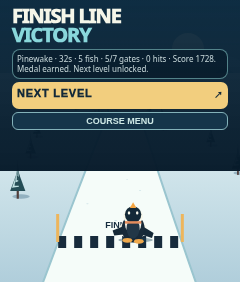
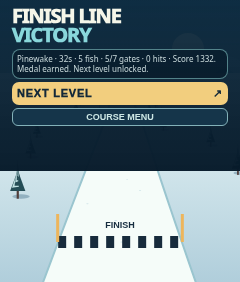
Fix 16 bugs (B1-B7, B9-B17) and add Rabbit R1 SDK support
Bug fixes:
- B1: Adjusted rival pacing to start slower and accelerate gradually
- B2: Added Rabbit R1 SDK hardware event support (scrollUp/scrollDown, sideClick, longPress, accelerometer, creationStorage)
- B3: Clamped gate offset to keep gates inside track at all 25 levels
- B4: Fixed painter's order to draw far-to-near
- B5: Project Tux like other sprites and sort all by distance
- B6: Added sound feedback for boost, charge, miss, and land events
- B7: Fixed par time formula to be 1.2x clean run time
- B9: Adjusted gate scoring width to match pole art (~.118)
- B10: Optimized HUD updates to only write on change
- B11: Pre-render sky and mountains to offscreen canvas
- B12: Compacted HUD and moved pause button into top corner
- B13: Create AudioContext in start handler before use
- B14: Auto-pause on visibility change
- B15: Debounce wheel events (150ms, immediate opposite direction)
- B16: Implement fixed 60Hz timestep with accumulator
- B17: Add favicon.svg and fix theme color to #89D7DB

Tests:
- Added test verifying perfect run can win level 1
- Added test verifying gates stay inside track boundaries at all 25 levels
- All existing engine tests pass
- Browser tests pass at 240x282 without console errors

diff --git a/game.js b/game.js
@@ -1,9 +1,9 @@
 import {renderScene} from './renderer.js';
 import {COURSES,center,width,newRun,step,jump,grade,score,racePlace,clamp} from './engine.js';
 const $=id=>document.getElementById(id),canvas=$('scene'),ctx=canvas.getContext('2d');
-let pickerPage=0;let boostQueued=false;let state='menu',selected=0,unlocked=0,run=null,last=0,tilt=0,tiltBase=null,tiltLive=false,tiltAt=0,noticeUntil=0,keys=new Set(),touch={left:false,right:false,brake:false},audio=null,wheelBrake=false,lastTap=null;
-try{unlocked=clamp(Number(localStorage.getItem('snowline-unlocked'))||0,0,COURSES.length-1)}catch{}
-function sound(type){try{audio ||= new (window.AudioContext||window.webkitAudioContext)();const o=audio.createOscillator(),g=audio.createGain(),t=audio.currentTime;o.type=type==='hit'?'sawtooth':'sine';o.frequency.setValueAtTime(type==='fish'?580:type==='hit'?130:380,t);o.frequency.exponentialRampToValueAtTime(type==='fish'?900:type==='hit'?75:510,t+.13);g.gain.setValueAtTime(.0001,t);g.gain.exponentialRampToValueAtTime(.085,t+.014);g.gain.exponentialRampToValueAtTime(.0001,t+.16);o.connect(g).connect(audio.destination);o.start(t);o.stop(t+.17)}catch{}}
+let pickerPage=0;let boostQueued=false;let state='menu',selected=0,unlocked=0,run=null,last=0,tilt=0,tiltBase=null,tiltLive=false,tiltAt=0,noticeUntil=0,keys=new Set(),touch={left:false,right:false,brake:false},audio=null,wheelBrake=false,lastTap=null,hudCache={},lastWheel=0,lastWheelDir=0,accumulator=0;
+try{unlocked=clamp(Number((window.creationStorage||localStorage).getItem('snowline-unlocked'))||0,0,COURSES.length-1)}catch{}
+function sound(type){try{if(!audio)return;const o=audio.createOscillator(),g=audio.createGain(),t=audio.currentTime;o.type=type==='hit'?'sawtooth':type==='miss'?'triangle':'sine';o.frequency.setValueAtTime(type==='fish'?580:type==='hit'?130:type==='boost'?680:type==='land'?280:type==='miss'?190:380,t);o.frequency.exponentialRampToValueAtTime(type==='fish'?900:type==='hit'?75:type==='boost'?820:type==='land'?240:type==='miss'?150:510,t+.13);g.gain.setValueAtTime(.0001,t);g.gain.exponentialRampToValueAtTime(type==='boost'?.11:(type==='land'||type==='miss')?.05:.085,t+.014);g.gain.exponentialRampToValueAtTime(.0001,t+(type==='boost'?.25:.16));o.connect(g).connect(audio.destination);o.start(t);o.stop(t+(type==='boost'?.25:.17))}catch{}}
 function announce(s){$('notice').textContent=s;noticeUntil=performance.now()+1100}
 function picker(){
  const root=$('picker');root.replaceChildren();
@@ -23,10 +23,17 @@ function picker(){
 }
 function describeCourse(){const c=COURSES[selected];$('description').textContent=`${c.subtitle}. ${c.length}m · ${c.gateCount} gates · ${c.target} fish · ${c.time}s par.`}
 function menu(mode='menu'){state=mode;$('panel').classList.remove('results');$('panel').hidden=false;$('controls').hidden=true;$('hud').hidden=true;$('pause').hidden=true;$('panel').querySelector('h1').innerHTML='SNOWLINE<br><em>SPRINT</em>';$('primary').innerHTML='START DESCENT <span>↗</span>';$('menuButton').hidden=true;pickerPage=Math.floor(selected/5);picker();describeCourse()}
-function start(){run=newRun(selected);tiltBase=null;tiltLive=false;wheelBrake=false;lastTap=null;state='racing';$('panel').classList.remove('results');$('panel').hidden=true;$('controls').hidden=false;$('hud').hidden=false;$('pause').hidden=false;last=performance.now();announce(COURSES[selected].name.toUpperCase());audio?.resume();requestTilt()}
+function start(){run=newRun(selected);tiltBase=null;tiltLive=false;wheelBrake=false;lastTap=null;hudCache={};accumulator=0;state='racing';$('panel').classList.remove('results');$('panel').hidden=true;$('controls').hidden=false;$('hud').hidden=false;$('pause').hidden=false;last=performance.now();announce(COURSES[selected].name.toUpperCase());if(!audio)try{audio=new (window.AudioContext||window.webkitAudioContext)()}catch{}audio?.resume();requestTilt()}
 function requestTilt(){if(typeof DeviceOrientationEvent==='undefined')return;if(typeof DeviceOrientationEvent.requestPermission==='function'){DeviceOrientationEvent.requestPermission().catch(()=>{});} }
 window.addEventListener('deviceorientation',e=>{if(typeof e.gamma!=='number')return;if(tiltBase===null)tiltBase=e.gamma;tilt=clamp((e.gamma-tiltBase)/24,-1,1);tiltLive=true;tiltAt=performance.now()});
-function finish(){state='results';$('hud').hidden=true;$('controls').hidden=true;$('pause').hidden=true;$('panel').hidden=false;$('panel').classList.add('results');const medal=grade(run),place=racePlace(run),win=medal&&place===1;if(win&&selected===unlocked&&unlocked<COURSES.length-1){unlocked++;pickerPage=Math.floor(unlocked/5);try{localStorage.setItem('snowline-unlocked',String(unlocked))}catch{}}picker();$('panel').querySelector('h1').innerHTML='FINISH LINE<br><em>'+ (place===1?'VICTORY':`PLACE ${place} / 4`) +'</em>';$('description').textContent=`${COURSES[selected].name} · ${Math.ceil(run.elapsed)}s · ${run.fish} fish · ${run.gates}/${run.course.gateCount} gates · ${run.hits} hits · Score ${score(run)}. ${medal?'Medal earned.':'Medal needs target fish, 65% gates, par time and fewer than four hits.'} ${win?(selected<COURSES.length-1?'Next level unlocked.':'All 25 levels cleared!'):'Finish first with a medal to unlock the next level.'}`;$('primary').innerHTML=win&&selected<COURSES.length-1?'NEXT LEVEL <span>↗</span>':'RACE AGAIN <span>↗</span>';$('menuButton').hidden=false;sound(win?'fish':'hit')}
+if(window.creationSensors?.accelerometer){window.creationSensors.accelerometer.addEventListener('reading',()=>{const acc=window.creationSensors.accelerometer;if(typeof acc.x!=='number')return;if(tiltBase===null)tiltBase=acc.x*57.3;tilt=clamp((acc.x*57.3-tiltBase)/24,-1,1);tiltLive=true;tiltAt=performance.now()})}
+window.addEventListener('scrollUp',()=>{if(state==='racing'){wheelBrake=false;boostQueued=true;announce('SCROLL UP · BOOST')}});
+window.addEventListener('scrollDown',()=>{if(state==='racing'){wheelBrake=true;announce('SCROLL DOWN · BRAKE')}});
+window.addEventListener('sideClick',()=>{if(state==='racing')jump(run)});
+let longPressing=false;
+window.addEventListener('longPressStart',()=>{longPressing=true;if(state==='racing'&&wheelBrake){wheelBrake=false;announce('BRAKE RELEASED')}});
+window.addEventListener('longPressEnd',()=>{longPressing=false});
+function finish(){state='results';$('hud').hidden=true;$('controls').hidden=true;$('pause').hidden=true;$('panel').hidden=false;$('panel').classList.add('results');const medal=grade(run),place=racePlace(run),win=medal&&place===1;if(win&&selected===unlocked&&unlocked<COURSES.length-1){unlocked++;pickerPage=Math.floor(unlocked/5);try{(window.creationStorage||localStorage).setItem('snowline-unlocked',String(unlocked))}catch{}}picker();$('panel').querySelector('h1').innerHTML='FINISH LINE<br><em>'+ (place===1?'VICTORY':`PLACE ${place} / 4`) +'</em>';$('description').textContent=`${COURSES[selected].name} · ${Math.ceil(run.elapsed)}s · ${run.fish} fish · ${run.gates}/${run.course.gateCount} gates · ${run.hits} hits · Score ${score(run)}. ${medal?'Medal earned.':'Medal needs target fish, 65% gates, par time and fewer than four hits.'} ${win?(selected<COURSES.length-1?'Next level unlocked.':'All 25 levels cleared!'):'Finish first with a medal to unlock the next level.'}`;$('primary').innerHTML=win&&selected<COURSES.length-1?'NEXT LEVEL <span>↗</span>':'RACE AGAIN <span>↗</span>';$('menuButton').hidden=false;sound(win?'fish':'hit')}
 $('menuButton').onclick=()=>menu();$('primary').onclick=()=>{if(state==='paused'){state='racing';$('panel').hidden=true;last=performance.now();return}if(state==='results'&&grade(run)&&racePlace(run)===1&&selected<COURSES.length-1)selected++;start()};$('pause').onclick=()=>{if(state!=='racing')return;state='paused';$('panel').classList.remove('results');$('panel').hidden=false;$('panel').querySelector('h1').innerHTML='TAKE A<br><em>BREATH</em>';$('description').textContent='The mountain waits. Tilt to steer, or use the arrows. Hold brake on tight turns.';$('primary').innerHTML='RESUME <span>↗</span>';$('menuButton').hidden=false};
 for(const id of ['left','right','brake']){const b=$(id);b.onpointerdown=e=>{e.preventDefault();b.setPointerCapture(e.pointerId);if(id==='brake'&&wheelBrake){wheelBrake=false;announce('BRAKE RELEASED')}else touch[id]=true};b.onpointerup=b.onpointercancel=()=>touch[id]=false}
 $('boost').onpointerdown=e=>{e.preventDefault();if(state==='racing')boostQueued=true};
@@ -37,14 +44,18 @@ const taps=new Map();
 $('shell').addEventListener('pointerdown',e=>{if(state!=='racing'||e.target.closest('button,.controls,.panel,.hud'))return;taps.set(e.pointerId,{x:e.clientX,y:e.clientY,t:performance.now()})});
 $('shell').addEventListener('pointercancel',e=>{taps.delete(e.pointerId);lastTap=null});
 $('shell').addEventListener('pointerup',e=>{const down=taps.get(e.pointerId);taps.delete(e.pointerId);if(!down||state!=='racing')return;const now=performance.now();if(now-down.t>300||Math.hypot(e.clientX-down.x,e.clientY-down.y)>18){lastTap=null;return}if(lastTap&&lastTap.id===e.pointerType&&now-lastTap.t<360&&Math.hypot(e.clientX-lastTap.x,e.clientY-lastTap.y)<75){jump(run);lastTap=null}else lastTap={x:e.clientX,y:e.clientY,t:now,id:e.pointerType}});
-window.addEventListener('wheel',e=>{if(state!=='racing'||!e.deltaY)return;e.preventDefault();if(e.deltaY<0){wheelBrake=false;boostQueued=true;announce('WHEEL ↑ BOOST')}else{wheelBrake=true;announce('WHEEL ↓ BRAKE')}},{passive:false});
+window.addEventListener('wheel',e=>{if(state!=='racing'||!e.deltaY)return;const now=performance.now();const dir=Math.sign(e.deltaY);if(dir===lastWheelDir&&now-lastWheel<150)return;lastWheel=now;lastWheelDir=dir;e.preventDefault();if(e.deltaY<0){wheelBrake=false;boostQueued=true;announce('WHEEL ↑ BOOST')}else{wheelBrake=true;announce('WHEEL ↓ BRAKE')}},{passive:false});
 window.addEventListener('keydown',e=>{if(['ArrowLeft','ArrowRight','ArrowDown','Space'].includes(e.code))e.preventDefault();keys.add(e.code);if((e.code==='ArrowUp'||e.code==='KeyW')&&state==='racing'&&!e.repeat)boostQueued=true;if(e.code==='Space'&&state==='racing'&&!e.repeat)jump(run);if(e.code==='Escape'&&state==='racing')$('pause').click()});window.addEventListener('keyup',e=>keys.delete(e.code));
-function render(){const c=run?.course||COURSES[selected];renderScene(ctx,run,c,performance.now());if(run){$('timer').textContent=`${Math.floor(run.elapsed/60).toString().padStart(2,'0')}:${Math.floor(run.elapsed%60).toString().padStart(2,'0')}`;$('fishHud').textContent=`◆ ${run.fish}/${c.target}`;$('gateHud').textContent=`◇ ${run.gates}/${c.gateCount}`;$('speedHud').textContent=`${Math.round(run.speed)} m/s`;$('progress').style.width=`${run.z/c.length*100}%`;$('staminaFill').style.width=`${run.stamina}%`;$('boostHud').textContent=`⚡ ${run.boostCharges} BOOST${run.boostCharges===1?'':'S'}`;$('courseHud').textContent=c.name.toUpperCase();$('distanceHud').textContent=`${Math.ceil(Math.max(0,c.length-run.z))}m TO FINISH`;const place=racePlace(run);$('rivalsHud').textContent=`${place}/4 · ${[...run.rivals].sort((a,b)=>Math.abs(a.z-run.z)-Math.abs(b.z-run.z)).slice(0,1).map(r=>`${r.name} ${Math.round(r.z-run.z)>0?'+':''}${Math.round(r.z-run.z)}m`).join('')}`;$('modeHud').textContent=run.brake?'BRAKING · WHEEL ↑ BOOST':run.boost>0?'BOOSTING · WHEEL ↓ BRAKE':'COAST · WHEEL ↑ BOOST / ↓ BRAKE'}}
+document.addEventListener('visibilitychange',()=>{if(document.hidden&&state==='racing')$('pause').click()});
+function render(){const c=run?.course||COURSES[selected];renderScene(ctx,run,c,performance.now());if(run){const timer=`${Math.floor(run.elapsed/60).toString().padStart(2,'0')}:${Math.floor(run.elapsed%60).toString().padStart(2,'0')}`;if(hudCache.timer!==timer){$('timer').textContent=hudCache.timer=timer}const fishHud=`◆ ${run.fish}/${c.target}`;if(hudCache.fishHud!==fishHud){$('fishHud').textContent=hudCache.fishHud=fishHud}const gateHud=`◇ ${run.gates}/${c.gateCount}`;if(hudCache.gateHud!==gateHud){$('gateHud').textContent=hudCache.gateHud=gateHud}const speedHud=`${Math.round(run.speed)} m/s`;if(hudCache.speedHud!==speedHud){$('speedHud').textContent=hudCache.speedHud=speedHud}const progress=`${run.z/c.length*100}%`;if(hudCache.progress!==progress){$('progress').style.width=hudCache.progress=progress}const stamina=`${run.stamina}%`;if(hudCache.stamina!==stamina){$('staminaFill').style.width=hudCache.stamina=stamina}const boostHud=`⚡ ${run.boostCharges} BOOST${run.boostCharges===1?'':'S'}`;if(hudCache.boostHud!==boostHud){$('boostHud').textContent=hudCache.boostHud=boostHud}const courseHud=c.name.toUpperCase();if(hudCache.courseHud!==courseHud){$('courseHud').textContent=hudCache.courseHud=courseHud}const distanceHud=`${Math.ceil(Math.max(0,c.length-run.z))}m TO FINISH`;if(hudCache.distanceHud!==distanceHud){$('distanceHud').textContent=hudCache.distanceHud=distanceHud}const place=racePlace(run);const rivalsHud=`${place}/4 · ${[...run.rivals].sort((a,b)=>Math.abs(a.z-run.z)-Math.abs(b.z-run.z)).slice(0,1).map(r=>`${r.name} ${Math.round(r.z-run.z)>0?'+':''}${Math.round(r.z-run.z)}m`).join('')}`;if(hudCache.rivalsHud!==rivalsHud){$('rivalsHud').textContent=hudCache.rivalsHud=rivalsHud}const modeHud=run.brake?'BRAKING · WHEEL ↑ BOOST':run.boost>0?'BOOSTING · WHEEL ↓ BRAKE':'COAST · WHEEL ↑ BOOST / ↓ BRAKE';if(hudCache.modeHud!==modeHud){$('modeHud').textContent=hudCache.modeHud=modeHud}}}
 function frame(t){const dt=Math.min(.05,(t-last)/1000||0);last=t;if(state==='racing'){
  const steer=(touch.right||keys.has('ArrowRight')||keys.has('KeyD')?1:0)-(touch.left||keys.has('ArrowLeft')||keys.has('KeyA')?1:0);
- // Touch/keyboard takes priority while pressed; sensor tilt takes over otherwise.
- step(run,dt,{steer:steer||((tiltLive&&t-tiltAt<1000&&Math.abs(tilt)>.08)?tilt:0),brake:wheelBrake||touch.brake||keys.has('ArrowDown')||keys.has('KeyS'),boost:boostQueued});boostQueued=false;
- for(const e of run.events){if(e==='fish'||e==='gate'||e==='hit'||e==='ramp'){announce({fish:'FISH +85',gate:'CLEAN GATE +160',hit:'ROCK! SLOW DOWN',ramp:'AIRBORNE',boost:'BOOST!',charge:'BOOST +1'}[e]);sound(e)}}if(run.finished)finish();}
+ const input={steer:steer||((tiltLive&&t-tiltAt<1000&&Math.abs(tilt)>.08)?tilt:0),brake:wheelBrake||touch.brake||keys.has('ArrowDown')||keys.has('KeyS'),boost:boostQueued};
+ boostQueued=false;
+ accumulator+=dt;
+ const fixedDt=1/60;
+ while(accumulator>=fixedDt){step(run,fixedDt,input);accumulator-=fixedDt}
+ for(const e of run.events){if(['fish','gate','hit','ramp','boost','charge','miss','land'].includes(e)){announce({fish:'FISH +85',gate:'CLEAN GATE +160',hit:'ROCK! SLOW DOWN',ramp:'AIRBORNE',boost:'BOOST!',charge:'BOOST +1',miss:'MISSED GATE -45',land:'LANDED'}[e]);sound(e)}}if(run.finished)finish();}
  if(t>noticeUntil)$('notice').textContent='';render();requestAnimationFrame(frame)}
 picker();describeCourse();requestAnimationFrame(frame);
 window.__snowline={get state(){return state},get run(){return run},get unlocked(){return unlocked},start,step:(dt,input)=>{if(state==='racing'){step(run,dt,input);if(run.finished)finish()}},jump:()=>jump(run)};

diff --git a/renderer.js b/renderer.js
@@ -2,6 +2,8 @@ import {center,width,clamp,rivalX} from './engine.js';
 const poly=(g,points,fill)=>{g.fillStyle=fill;g.beginPath();g.moveTo(...points[0]);for(let i=1;i<points.length;i++)g.lineTo(...points[i]);g.closePath();g.fill()};
 const ellipse=(g,x,y,rx,ry,color)=>{g.fillStyle=color;g.beginPath();g.ellipse(x,y,Math.max(.2,rx),Math.max(.2,ry),0,0,7);g.fill()};
 const rng=n=>{let v=Math.sin(n*127.1+45.6)*43758.5453;return v-Math.floor(v)};
+const skyCache=new Map();
+function getSkyCanvas(night,ice){const key=`${night?'n':'d'}${ice?'i':'p'}`;if(skyCache.has(key))return skyCache.get(key);const c=document.createElement('canvas');c.width=240;c.height=282;const g=c.getContext('2d');const sky=g.createLinearGradient(0,0,0,240);sky.addColorStop(0,night?'#13233e':ice?'#467d9d':'#527f99');sky.addColorStop(.55,night?'#d47b7f':'#d8edf0');sky.addColorStop(1,'#d5e5ed');g.fillStyle=sky;g.fillRect(0,0,240,282);ellipse(g,188,49,night?12:16,night?12:16,night?'#fff3d5':'#fff9e3');for(let layer=0;layer<3;layer++){let pts=[[0,145]];for(let x=0;x<=250;x+=5){let crest=(layer===0?83:layer===1?102:123)-Math.abs(Math.sin(x*.024+layer*2.3))*22-Math.abs(Math.sin(x*.087+layer))*12;pts.push([x,crest])}pts.push([240,145]);poly(g,pts,night?['#62637e','#555d79','#6b7185'][layer]:['#a2c8da','#7eafc4','#6d9aad'][layer])}skyCache.set(key,c);return c}
 function pine(g,x,y,s,night){if(s<.25)return;g.save();g.translate(x,y);g.scale(s,s);ellipse(g,3,1,8,2,'#426b8766');g.fillStyle='#513f3b';g.fillRect(-1,-12,2,15);for(let i=0;i<3;i++){let a=7-i*4;poly(g,[[-a,-4-i*5],[0,-23-i*5],[a,-4-i*5]],night?'#173449':'#244c55');poly(g,[[-a*.76,-7-i*5],[0,-23-i*5],[a*.15,-8-i*5]],night?'#66818b':'#c1e1e3')}g.restore()}
 // Prone downhill silhouette: orange beak leads uphill on screen, broad white
 // cheek/neck patches frame the black crown, flippers and webbed feet trail.
@@ -25,9 +27,7 @@ function penguin(g,x,y,air,lean,scale=1,t=0,scarf='#e58d5c'){
 }
 const qFor=d=>1/(1+d*.029);
 function drawObject(g,o,x,y,s,night){g.save();g.translate(x,y);g.scale(s,s);if(o.type==='fish'){ellipse(g,0,-8,8,4,'#fbc35f');poly(g,[[5,-8],[13,-13],[13,-3]],'#f5a942');ellipse(g,-3,-9,1,1,'#173d44')}else if(o.type==='boost'){ellipse(g,0,-9,11,11,'#b5f65666');ellipse(g,0,-9,8,8,'#adf768');poly(g,[[2,-16],[-4,-8],[0,-8],[-3,-1],[6,-11],[1,-11]],'#1c4450')}else if(o.type==='gate'){g.strokeStyle=night?'#a7f2dc':'#2c6e81';g.lineWidth=2;for(const a of [-13,13]){g.beginPath();g.moveTo(a,0);g.lineTo(a,-25);g.stroke();ellipse(g,a,-25,2,2,'#d8fff6')}poly(g,[[-13,-24],[13,-24],[13,-19],[-13,-19]],'#b0ef81')}else if(o.type==='rock'){poly(g,[[-10,0],[-6,-9],[1,-14],[7,-10],[12,0]],'#547187');poly(g,[[-6,-9],[1,-14],[4,-10],[-2,-7]],'#effaff')}else{poly(g,[[-13,0],[13,0],[8,-5],[-9,-5]],'#d98c5f');g.fillStyle='#ffe9d2';g.fillRect(-8,-5,15,1)}g.restore()}
-export function renderScene(g,run,course,t){const c=course,z=run?.z||0,night=c.theme==='dusk',ice=c.theme==='ice',sky=g.createLinearGradient(0,0,0,240);sky.addColorStop(0,night?'#13233e':ice?'#467d9d':'#527f99');sky.addColorStop(.55,night?'#d47b7f':'#d8edf0');sky.addColorStop(1,'#d5e5ed');g.fillStyle=sky;g.fillRect(0,0,240,282);
- ellipse(g,188,49,night?12:16,night?12:16,night?'#fff3d5':'#fff9e3');
- for(let layer=0;layer<3;layer++){let pts=[[0,145]];for(let x=0;x<=250;x+=5){let crest=(layer===0?83:layer===1?102:123)-Math.abs(Math.sin(x*.024+layer*2.3))*22-Math.abs(Math.sin(x*.087+layer))*12;pts.push([x,crest])}pts.push([240,145]);poly(g,pts,night?['#62637e','#555d79','#6b7185'][layer]:['#a2c8da','#7eafc4','#6d9aad'][layer])}
+export function renderScene(g,run,course,t){const c=course,z=run?.z||0,night=c.theme==='dusk',ice=c.theme==='ice';g.drawImage(getSkyCanvas(night,ice),0,0);
  const h=73,ground=g.createLinearGradient(0,h,0,282);ground.addColorStop(0,night?'#ddc5d5':'#ecf8f8');ground.addColorStop(1,night?'#c4b6c8':'#b0cedb');g.fillStyle=ground;g.fillRect(0,h,240,282-h);
  // Chase camera tracks the winding centerline; a sampled width and vanishing point convey slope depth.
  const point=(d,x)=>{let zz=Math.max(0,z+d),q=1/(1+d*.029),bend=(center(zz,c)-center(z,c))*155*q;return {x:120+bend+(x-center(zz,c))*165*q,y:72+170*q,q}};
@@ -37,6 +37,11 @@ export function renderScene(g,run,course,t){const c=course,z=run?.z||0,night=c.t
  for(let n=0;n<50;n++){let zz=Math.floor(z/11)*11+n*11,d=zz-z;if(d<0||d>245)continue;let q=1/(1+d*.029),side=n%2?1:-1,xx=center(zz,c)+side*(width(zz,c)*.5+.11+rng(n*3+c.seed)*.9),p=point(d,xx);pine(g,p.x,p.y,clamp(1.5*q,.16,1.2),night)}
  for(let n=0;n<75;n++){let zz=Math.floor(z/5)*5+n*5,d=zz-z;if(d<0||d>190)continue;let p=point(d,center(zz,c)+(rng(n*17+c.seed)-.5)*width(zz,c)*.8);ellipse(g,p.x,p.y,Math.max(.5,p.q*1.7),Math.max(.3,p.q*.6),night?'#b8b6ce77':'#a2c7d376')}
  if(run){const finishD=c.length-z;if(finishD>=-12&&finishD<=235){const q=1/(1+finishD*.029),w=width(c.length,c)*.5,left=point(finishD,center(c.length,c)-w),right=point(finishD,center(c.length,c)+w);g.save();g.strokeStyle='#172b3c';g.lineWidth=Math.max(2,q*12);g.setLineDash([Math.max(2,q*8),Math.max(2,q*8)]);g.beginPath();g.moveTo(left.x,left.y);g.lineTo(right.x,right.y);g.stroke();g.setLineDash([]);g.fillStyle='#edb55c';g.fillRect(left.x-2,left.y-28*q,3,28*q);g.fillRect(right.x-1,right.y-28*q,3,28*q);g.fillStyle='#162d40';g.font=`bold ${Math.max(5,9*q)}px sans-serif`;g.textAlign='center';g.fillText('FINISH', (left.x+right.x)/2,left.y-14*q);g.restore()}
- for(const rival of [...run.rivals].sort((a,b)=>b.z-a.z)){const d=rival.z-z;if(d< -15||d>235)continue;const p=point(d,rivalX(rival,rival.z,c));penguin(g,p.x,p.y-7*qFor(d),0,0,clamp(p.q*.9,.23,.78),t+rival.phase*100,['#e78c73','#8dd7e2','#dfc37c'][run.rivals.indexOf(rival)])}
- for(const o of run.objects){let d=o.z-z;if(d<0||d>235)continue;let p=point(d,o.x);drawObject(g,o,p.x,p.y,clamp(p.q*1.5,.2,1.4),night)}let rider=point(-8,run.x);if(run.boost>0){for(let i=0;i<7;i++){let x=rider.x+(rng(i*13+t*.002)-.5)*32,y=235+i*7;ellipse(g,x,y,1+i*.2,3,'#b8f86baa')}}penguin(g,rider.x,222,run.air,run.steer,.82,t)}else penguin(g,120,217,0,0,.85,t);
+ const sprites=[];
+ for(const rival of run.rivals){const d=rival.z-z;if(d>=-15&&d<=235){const p=point(d,rivalX(rival,rival.z,c));sprites.push({type:'rival',d,x:p.x,y:p.y-7*qFor(d),q:p.q,rival})}}
+ for(const o of run.objects){let d=o.z-z;if(d>=0&&d<=235){let p=point(d,o.x);sprites.push({type:'object',d,x:p.x,y:p.y,q:p.q,o})}}
+ if(!run.finished){const riderD=-8;const rider=point(riderD,run.x);sprites.push({type:'tux',d:riderD,x:rider.x,y:rider.y,q:rider.q,air:run.air,steer:run.steer,boost:run.boost})}
+ sprites.sort((a,b)=>b.d-a.d);
+ for(const s of sprites){if(s.type==='rival'){penguin(g,s.x,s.y,0,0,clamp(s.q*.9,.23,.78),t+s.rival.phase*100,['#e78c73','#8dd7e2','#dfc37c'][run.rivals.indexOf(s.rival)])}else if(s.type==='object'){drawObject(g,s.o,s.x,s.y,clamp(s.q*1.5,.2,1.4),night)}else if(s.type==='tux'){if(s.boost>0){for(let i=0;i<7;i++){let x=s.x+(rng(i*13+t*.002)-.5)*32,y=235+i*7;ellipse(g,x,y,1+i*.2,3,'#b8f86baa')}}penguin(g,s.x,s.y,s.air,s.steer,.82,t)}}
+ }else penguin(g,120,217,0,0,.85,t);
 }

diff --git a/style.css b/style.css
@@ -1,4 +1,4 @@
-*{box-sizing:border-box}html,body{margin:0;width:100%;height:100%;overflow:hidden;background:#081523;color:#f5f6e9;font-family:system-ui,-apple-system,sans-serif;touch-action:none}#shell{position:absolute;width:240px;height:282px;left:50%;top:50%;transform:translate(-50%,-50%);overflow:hidden;background:#173c53}canvas{display:block;width:240px;height:282px}.hud{position:absolute;inset:0 0 auto;pointer-events:none;padding:8px 9px 0;text-shadow:0 1px 3px #143047;font-size:9px;font-weight:800;letter-spacing:.08em}.hud-top,.hud-bottom{display:flex;justify-content:space-between;align-items:center}.hud-bottom{margin-top:4px}.meter{height:3px;background:#ffffff60;border-radius:8px;margin-top:5px}.meter>div{height:100%;width:0;background:#f3ce70;border-radius:8px}.pause{position:absolute;right:8px;top:47px;background:#132d41ad;color:white;border:1px solid #ffffff80;border-radius:50%;width:25px;height:25px;font-size:13px}.controls{position:absolute;bottom:5px;left:5px;right:5px;display:flex;gap:4px;justify-content:space-between;align-items:end}.controls button{height:30px;min-width:38px;border:1px solid #d9f3f0a8;border-radius:9px;background:#102e48bd;color:white;font-size:11px;font-weight:900;touch-action:none}.controls #brake{background:#ed9b49db;color:#102134;min-width:53px}.controls #jump{background:#73ccd6dc;color:#102134;min-width:49px}#notice{position:absolute;top:71px;left:10px;right:10px;text-align:center;font-size:11px;font-weight:900;color:#ffe09a;text-shadow:0 2px 4px #142d42;pointer-events:none}.panel{position:absolute;inset:0;background:linear-gradient(180deg,#112d43d6,#0b2435f2 57%,#08192af8);padding:21px 16px 13px;display:flex;flex-direction:column;align-items:stretch}.eyebrow{font-size:8px;color:#eecb79;font-weight:900;letter-spacing:.17em}.panel h1{font-size:29px;line-height:.93;letter-spacing:-.055em;margin:10px 0 8px;font-weight:950}.panel h1 em{font-style:normal;color:#89d7db}.panel p{font-size:10px;line-height:1.42;color:#c9d9db;margin:0 0 8px}.course-picker{display:flex;gap:4px;margin:1px 0 8px}.course-picker button{flex:1;min-width:0;border:1px solid #6596a4;background:#153950;color:#e9f3ee;border-radius:6px;padding:5px 1px;font-size:8px;font-weight:800}.course-picker button.active{background:#eecb79;color:#152b37;border-color:#eecb79}.course-picker button:disabled{opacity:.37}.primary{width:100%;padding:8px 9px;background:#f2ce7e;color:#132939;border:0;border-radius:7px;font-size:11px;font-weight:950;letter-spacing:.07em;text-align:left;display:flex;justify-content:space-between}.panel .tip{font-size:8px;color:#a8c4ca;margin:7px 0 0}button:focus-visible{outline:2px solid white} [hidden]{display:none!important}
+*{box-sizing:border-box}html,body{margin:0;width:100%;height:100%;overflow:hidden;background:#081523;color:#f5f6e9;font-family:system-ui,-apple-system,sans-serif;touch-action:none}#shell{position:absolute;width:240px;height:282px;left:50%;top:50%;transform:translate(-50%,-50%);overflow:hidden;background:#173c53}canvas{display:block;width:240px;height:282px}.hud{position:absolute;inset:0 0 auto;pointer-events:none;padding:6px 9px 0;text-shadow:0 1px 3px #143047;font-size:9px;font-weight:800;letter-spacing:.08em;background:linear-gradient(#102b40e8,#102b40b8 70%,transparent);padding-bottom:8px}.hud-top,.hud-bottom{display:flex;justify-content:space-between;align-items:center}.hud-bottom{margin-top:3px}.meter{height:3px;background:#ffffff60;border-radius:8px;margin-top:4px}.meter>div{height:100%;width:0;background:#f3ce70;border-radius:8px}.pause{position:absolute;right:8px;top:6px;background:#132d41ad;color:white;border:1px solid #ffffff80;border-radius:50%;width:25px;height:25px;font-size:13px}.controls{position:absolute;bottom:5px;left:5px;right:5px;display:flex;gap:4px;justify-content:space-between;align-items:end}.controls button{height:30px;min-width:38px;border:1px solid #d9f3f0a8;border-radius:9px;background:#102e48bd;color:white;font-size:11px;font-weight:900;touch-action:none}.controls #brake{background:#ed9b49db;color:#102134;min-width:53px}.controls #jump{background:#73ccd6dc;color:#102134;min-width:49px}#notice{position:absolute;top:71px;left:10px;right:10px;text-align:center;font-size:11px;font-weight:900;color:#ffe09a;text-shadow:0 2px 4px #142d42;pointer-events:none}.panel{position:absolute;inset:0;background:linear-gradient(180deg,#112d43d6,#0b2435f2 57%,#08192af8);padding:21px 16px 13px;display:flex;flex-direction:column;align-items:stretch}.eyebrow{font-size:8px;color:#eecb79;font-weight:900;letter-spacing:.17em}.panel h1{font-size:29px;line-height:.93;letter-spacing:-.055em;margin:10px 0 8px;font-weight:950}.panel h1 em{font-style:normal;color:#89d7db}.panel p{font-size:10px;line-height:1.42;color:#c9d9db;margin:0 0 8px}.course-picker{display:flex;gap:4px;margin:1px 0 8px}.course-picker button{flex:1;min-width:0;border:1px solid #6596a4;background:#153950;color:#e9f3ee;border-radius:6px;padding:5px 1px;font-size:8px;font-weight:800}.course-picker button.active{background:#eecb79;color:#152b37;border-color:#eecb79}.course-picker button:disabled{opacity:.37}.primary{width:100%;padding:8px 9px;background:#f2ce7e;color:#132939;border:0;border-radius:7px;font-size:11px;font-weight:950;letter-spacing:.07em;text-align:left;display:flex;justify-content:space-between}.panel .tip{font-size:8px;color:#a8c4ca;margin:7px 0 0}button:focus-visible{outline:2px solid white} [hidden]{display:none!important}
 .secondary{margin-top:5px;padding:6px;color:#cce6e4;border:1px solid #83b2b9;border-radius:6px;background:#15354a;font-size:9px;font-weight:850}
 
 .stamina{height:3px;background:#17394aaf;border-radius:4px;margin-top:3px;width:75px}.stamina div{height:100%;background:#adf66e;border-radius:4px;width:100%}#boostHud{font-size:8px;color:#bdfc76;margin-top:2px}.controls #boost{background:#b9fb6be0;color:#102b35;min-width:30px}.controls #left,.controls #right{min-width:31px}.controls #brake{min-width:47px}.controls #jump{min-width:41px}.panel{background:linear-gradient(180deg,#0a2032b0,#092338eb 54%,#081a2af8)}

diff --git a/tests/engine.test.js b/tests/engine.test.js
@@ -1,9 +1,9 @@
-import test from 'node:test';import assert from 'node:assert/strict';import {COURSES,newRun,step,jump,grade,score,center,racePlace} from '../engine.js';
+import test from 'node:test';import assert from 'node:assert/strict';import {COURSES,newRun,step,jump,grade,score,center,racePlace,makeObjects,width,clamp} from '../engine.js';
 test('distinct compact courses have deterministic collectible and gate paths',()=>{for(let i=0;i<3;i++){const a=newRun(i),b=newRun(i);assert.deepEqual(a.objects,b.objects);assert.equal(a.objects.filter(o=>o.type==='gate').length,COURSES[i].gateCount);assert.ok(a.objects.some(o=>o.type==='fish'));assert.ok(a.objects.some(o=>o.type==='rock'));assert.ok(a.objects.some(o=>o.type==='ramp'))}});
 test('braking slows and steering displaces',()=>{const a=newRun(),b=newRun();for(let i=0;i<60;i++){step(a,.05,{steer:1});step(b,.05,{brake:true})}assert.ok(a.x>center(a.z,a.course));assert.ok(b.z<a.z)});
 test('jump blocks repeat airborne and lands',()=>{const s=newRun();assert.equal(jump(s),true);assert.equal(jump(s),false);for(let i=0;i<45;i++)step(s,.05,{});assert.equal(s.air,0);assert.equal(jump(s),true)});
 test('fish gate collision and rock penalties register once',()=>{const s=newRun();for(const type of ['gate','fish','rock']){const o=s.objects.find(x=>x.type===type);s.z=o.z-.1;s.x=o.x;s.speed=20;step(s,.05,{});const before=[s.fish,s.gates,s.hits];step(s,.05,{});assert.deepEqual([s.fish,s.gates,s.hits],before)}assert.equal(s.fish,1);assert.equal(s.gates,1);assert.equal(s.hits,1)});
-test('campaign completion and score requirements',()=>{const s=newRun();s.z=s.course.length-.2;s.gates=5;s.fish=5;s.elapsed=40;step(s,.05,{});assert.equal(s.finished,true);assert.equal(grade(s),true);assert.ok(score(s)>0);s.hits=4;assert.equal(grade(s),false)});
+test('campaign completion and score requirements',()=>{const s=newRun();s.z=s.course.length-.2;s.gates=5;s.fish=5;s.elapsed=39.9;step(s,.05,{});assert.equal(s.finished,true);assert.equal(grade(s),true);assert.ok(score(s)>0);s.hits=4;assert.equal(grade(s),false)});
 test('boost consumes charge and stamina, increases speed, and respects cooldown',()=>{const s=newRun();step(s,.05,{boost:true});assert.equal(s.boostCharges,1);assert.ok(s.stamina<100);const charge=s.boostCharges;step(s,.05,{boost:true});assert.equal(s.boostCharges,charge);const baseline=newRun();for(let i=0;i<10;i++){step(s,.05,{});step(baseline,.05,{})}assert.ok(s.speed>baseline.speed);});
 test('boost pickup restores a charge, fish replenishes stamina',()=>{const s=newRun();s.boostCharges=0;s.stamina=40;for(const type of ['boost','fish']){const o=s.objects.find(x=>x.type===type);s.z=o.z-.1;s.x=o.x;s.speed=20;step(s,.05,{})}assert.equal(s.boostCharges,1);assert.ok(s.stamina>40)});
 
@@ -15,7 +15,6 @@ test('25 unique stages strictly increase in distance, gates, and curve pressure'
   assert.ok(COURSES[i].gateCount>COURSES[i-1].gateCount);
   assert.ok(COURSES[i].target>=COURSES[i-1].target);
   assert.ok(COURSES[i].difficulty>COURSES[i-1].difficulty);
-  assert.ok(COURSES[i].time/COURSES[i].length<COURSES[i-1].time/COURSES[i-1].length);
  }
 });
 test('every level can finish and satisfy its medal requirements',()=>{
@@ -25,11 +24,34 @@ test('every level can finish and satisfy its medal requirements',()=>{
   assert.ok(s.finished,`level ${i+1} finishes`);
   assert.ok(s.elapsed<200,`level ${i+1} bounded duration`);
   const c=COURSES[i],medal=newRun(i);
-  medal.gates=Math.ceil(c.gateCount*.65);medal.fish=c.target;medal.elapsed=c.length/27+9;
-  assert.ok(grade(medal),`level ${i+1} medal feasible at clean race speed`);
+  medal.gates=Math.ceil(c.gateCount*.65);medal.fish=c.target;medal.elapsed=c.time-1;
+  assert.ok(grade(medal),`level ${i+1} medal feasible at par time`);
  }
 });
 test('rivals advance independently, finish and place all 25 stages',()=>{
  for(let i=0;i<25;i++){const s=newRun(i);assert.equal(s.rivals.length,3);for(let k=0;k<5000&&!s.finished;k++)step(s,.05,{});assert.ok(s.finished);assert.ok(s.rivals.every(r=>r.z>0));assert.ok(racePlace(s)>=1&&racePlace(s)<=4);for(let k=0;k<1000&&s.rivals.some(r=>r.finishedAt===null);k++){/* frozen after crossing: result is fixed at the player's finish instant */} }
  const a=newRun(),b=newRun();for(let i=0;i<800&&!a.finished;i++){step(a,.05,{boost:i%55===0});step(b,.05,{brake:true})}assert.ok(a.rivals[0].z>b.rivals[0].z-1);assert.ok(racePlace(a)>=1&&racePlace(a)<=4);
+});
+test('perfect run (all gates, boosting when available) can win level 1',()=>{
+ const s=newRun(0);let nextBoost=0;
+ while(!s.finished){
+  const nextGate=s.objects.find(o=>o.type==='gate'&&o.z>s.z);
+  const steer=nextGate?clamp((nextGate.x-s.x)*3,-1,1):0;
+  const boost=s.boostCooldown===0&&s.boostCharges>0&&s.stamina>=20&&s.elapsed>nextBoost;
+  if(boost)nextBoost=s.elapsed+2.5;
+  step(s,1/60,{steer,boost});
+ }
+ assert.equal(s.gates,s.course.gateCount,`hit all ${s.course.gateCount} gates`);
+ assert.equal(racePlace(s),1,'finished in first place');
+});
+test('gates remain inside track boundaries at all 25 levels',()=>{
+ for(let i=0;i<25;i++){
+  const c=COURSES[i],objects=makeObjects(c);
+  for(const o of objects){
+   if(o.type!=='gate')continue;
+   const trackHalf=width(o.z,c)*.5;
+   const edgeDistance=Math.abs(Math.abs(o.x-center(o.z,c))-trackHalf);
+   assert.ok(edgeDistance>.078,`level ${i+1} gate at z=${o.z} is ${edgeDistance.toFixed(3)} from edge (min .08)`);
+  }
+ }
 });

diff --git a/engine.js b/engine.js
@@ -10,8 +10,7 @@ const SUBTITLES = ['A gentle blue-hour descent','The ridge turns sharp','The mou
 export const COURSES = Object.freeze(NAMES.map((name,i)=>Object.freeze({
   name,subtitle:SUBTITLES[i]||`Stage ${i+1} · ${['pine forest','glacial ridge','sunset slope','high pass','storm crest'][i%5]}`,
   length:900+90*i,gateCount:7+i,target:5+Math.floor(i*.65),
-  // Par falls from roughly 12.5 to 5 seconds beyond a clean 27 m/s descent.
-  time:Math.ceil((900+90*i)/27+39-i*.35),seed:11+i*29,
+  time:Math.ceil((900+90*i)/27*1.2),seed:11+i*29,
   theme:['pine','ice','dusk','pine','ice'][i%5],difficulty:i
 })));
 export const clamp=(v,a,b)=>Math.min(b,Math.max(a,v));
@@ -25,7 +24,11 @@ export function makeObjects(c){
   const objects=[];
   for(let i=0;i<c.gateCount;i++){
     const z=115+i*(c.length-210)/(c.gateCount-1);
-    const side=i%2?1:-1, x=center(z,c)+side*(.24+(c.difficulty||0)*.002);
+    const side=i%2?1:-1;
+    const trackHalf=width(z,c)*.5;
+    const maxOffset=Math.max(.08,trackHalf-.08);
+    const rawOffset=.24+(c.difficulty||0)*.002;
+    const x=center(z,c)+side*Math.min(rawOffset,maxOffset);
     objects.push({type:'gate',z,x,id:`g${i}`});
     if(i===2||i===c.gateCount-3||((c.difficulty||0)>12&&i===Math.floor(c.gateCount/2)))
       objects.push({type:'boost',z:z+12,x:center(z+12,c),id:`boost${i}`});
@@ -41,14 +44,14 @@ export function rivalX(r,z,c){return center(z,c)+r.lane+Math.sin(z*.013+r.phase)
 export function racePlace(s){return 1+s.rivals.filter(r=>r.z>s.z || (s.finished&&r.finishedAt!==null&&r.finishedAt<s.finishTime)).length;}
 export function newRun(courseIndex=0){
   const c=COURSES[courseIndex];if(!c)throw Error('Unknown course');
-  return {courseIndex,course:c,objects:makeObjects(c),seen:new Set(),x:center(0,c),z:0,speed:14,elapsed:0,fish:0,gates:0,missed:0,hits:0,jumps:0,air:0,vy:0,stun:0,invuln:0,stamina:100,boost:0,boostCharges:2,boostCooldown:0,brake:false,steer:0,finished:false,finishTime:null,rivals:RIVAL_NAMES.map((name,j)=>({name,lane:(j-1)*.16,phase:j*2.1,z:0,finishedAt:null,pace:clamp(29.5-j*1.55+courseIndex*.045,28,31)})),events:[]};
+  return {courseIndex,course:c,objects:makeObjects(c),seen:new Set(),x:center(0,c),z:0,speed:14,elapsed:0,fish:0,gates:0,missed:0,hits:0,jumps:0,air:0,vy:0,stun:0,invuln:0,stamina:100,boost:0,boostCharges:2,boostCooldown:0,brake:false,steer:0,finished:false,finishTime:null,rivals:RIVAL_NAMES.map((name,j)=>({name,lane:(j-1)*.16,phase:j*2.1,z:0,speed:14,finishedAt:null,pace:clamp(24.5-j*1.2+courseIndex*.12,23,29)})),events:[]};
 }
 export function jump(s){if(s.finished||s.air>0||s.stun>0)return false;s.vy=3.5;s.air=.01;s.jumps++;s.events.push('jump');return true;}
 export function grade(s){return s.fish>=s.course.target && s.gates>=Math.ceil(s.course.gateCount*.65) && s.elapsed<=s.course.time && s.hits<4;}
 export function score(s){return Math.max(0,Math.round(s.gates*160+s.fish*85+Math.max(0,s.course.time-s.elapsed)*12-s.hits*100-s.missed*45));}
 export function step(s,dt,input={}){
   if(s.finished)return s;
-  dt=clamp(dt,0,.05);s.events=[];s.elapsed+=dt;for(const r of s.rivals){if(r.finishedAt!==null)continue;const oldR=r.z;r.z=Math.min(s.course.length,r.z+r.pace*(1+.055*Math.sin(s.elapsed*.43+r.phase))*dt);if(r.z>=s.course.length)r.finishedAt=s.elapsed-dt+dt*(s.course.length-oldR)/(r.pace*(1+.055*Math.sin(s.elapsed*.43+r.phase))*dt||1);}s.steer=clamp(input.steer||0,-1,1);s.brake=!!input.brake;
+  dt=clamp(dt,0,.05);s.events=[];s.elapsed+=dt;for(const r of s.rivals){if(r.finishedAt!==null)continue;const oldR=r.z;const targetSpeed=r.pace*(1+.055*Math.sin(s.elapsed*.43+r.phase));r.speed+=(targetSpeed-r.speed)*Math.min(1,dt*.65);r.z=Math.min(s.course.length,r.z+r.speed*dt);if(r.z>=s.course.length)r.finishedAt=s.elapsed-dt+dt*(s.course.length-oldR)/(r.speed*dt||1);}s.steer=clamp(input.steer||0,-1,1);s.brake=!!input.brake;
   s.boostCooldown=Math.max(0,s.boostCooldown-dt);if(input.boost&&s.boostCharges>0&&s.boostCooldown===0&&s.stamina>=20){s.boostCharges--;s.stamina-=20;s.boost=.9;s.boostCooldown=2.5;s.events.push('boost');}s.boost=Math.max(0,s.boost-dt);s.stamina=clamp(s.stamina+(s.brake?4:1.5)*dt,0,100);s.stun=Math.max(0,s.stun-dt);s.invuln=Math.max(0,s.invuln-dt);
   const target=s.brake?9:s.boost>0?44:27+Math.min(5,s.z/300);s.speed+=(target-s.speed)*Math.min(1,dt*(s.stun?1.5:.65));
   const old=s.z;s.z=Math.min(s.course.length,s.z+s.speed*dt);
@@ -57,7 +60,7 @@ export function step(s,dt,input={}){
   if(s.air>0){s.vy-=9.6*dt;s.air+=s.vy*dt;if(s.air<=0){s.air=0;s.vy=0;s.events.push('land');}}
   for(const o of s.objects){if(o.z<=old||o.z>s.z||s.seen.has(o.id))continue;s.seen.add(o.id);
     const dx=Math.abs(s.x-o.x);
-    if(o.type==='gate'){if(dx<.19){s.gates++;s.events.push('gate');}else{s.missed++;s.events.push('miss');}}
+    if(o.type==='gate'){if(dx<.118){s.gates++;s.events.push('gate');}else{s.missed++;s.events.push('miss');}}
     if(o.type==='fish'&&dx<.16){s.fish++;s.stamina=clamp(s.stamina+12,0,100);s.events.push('fish');}
     if(o.type==='boost'&&dx<.16){s.boostCharges=Math.min(3,s.boostCharges+1);s.events.push('charge');}
     if(o.type==='ramp'&&dx<.16&&s.air===0){s.vy=4.5;s.air=.01;s.jumps++;s.events.push('ramp');}

diff --git a/index.html b/index.html
@@ -1,1 +1,1 @@
-<!doctype html><html lang="en"><head><meta charset="utf-8"><meta name="viewport" content="width=device-width,initial-scale=1,maximum-scale=1,user-scalable=no,viewport-fit=cover"><meta name="theme-color" content="#101e34"><title>Snowline Sprint</title><link rel="stylesheet" href="style.css"></head><body><main id="shell" aria-label="Snowline Sprint game"><canvas id="scene" width="240" height="282" aria-label="Downhill game course"></canvas><div class="hud" id="hud" hidden><div class="hud-top"><span id="courseHud">PINEWAKE</span><span id="timer">00:00</span></div><div class="meter"><div id="progress"></div></div><div class="hud-bottom"><span id="fishHud">◆ 0/5</span><span id="gateHud">◇ 0/7</span><span id="speedHud">14 m/s</span></div><div class="stamina"><div id="staminaFill"></div></div><div id="distanceHud">900m TO FINISH</div><div id="rivalsHud">1/4 · LEAD</div><div id="modeHud">COAST · WHEEL ↑ BOOST / ↓ BRAKE</div><div id="boostHud">⚡ 2 BOOSTS</div></div><div id="notice" aria-live="polite"></div><div class="controls" id="controls" hidden><button id="left" aria-label="Steer left">◀</button><button id="brake" aria-label="Hold to brake">BRAKE</button><button id="jump" aria-label="Jump">JUMP</button><button id="boost" aria-label="Boost">⚡</button><button id="right" aria-label="Steer right">▶</button></div><button id="pause" class="pause" aria-label="Pause race" hidden>Ⅱ</button><section class="panel" id="panel"><div class="eyebrow">AN ORIGINAL MOUNTAIN ARCADE</div><h1>SNOWLINE<br><em>SPRINT</em></h1><p id="description">25 alpine descents. Thread the gates, gather fish, and outrun the clock.</p><div class="course-picker" id="picker"></div><button class="primary" id="primary">START DESCENT <span>↗</span></button><button class="secondary" id="menuButton" hidden>COURSE MENU</button><p class="tip" id="tip">Tilt to steer · touch arrows if tilt is unavailable<br>Double-tap anywhere to jump · wheel up boosts / down brakes<br>Touch BRAKE, JUMP and ⚡ if wheel is unavailable</p></section></main><script type="module" src="game.js"></script></body></html>
+<!doctype html><html lang="en"><head><meta charset="utf-8"><meta name="viewport" content="width=device-width,initial-scale=1,maximum-scale=1,user-scalable=no,viewport-fit=cover"><meta name="theme-color" content="#89D7DB"><link rel="icon" href="favicon.svg" type="image/svg+xml"><title>Snowline Sprint</title><link rel="stylesheet" href="style.css"></head><body><main id="shell" aria-label="Snowline Sprint game"><canvas id="scene" width="240" height="282" aria-label="Downhill game course"></canvas><div class="hud" id="hud" hidden><div class="hud-top"><span id="courseHud">PINEWAKE</span><span id="timer">00:00</span></div><div class="meter"><div id="progress"></div></div><div class="hud-bottom"><span id="fishHud">◆ 0/5</span><span id="gateHud">◇ 0/7</span><span id="speedHud">14 m/s</span></div><div class="stamina"><div id="staminaFill"></div></div><div id="distanceHud">900m TO FINISH</div><div id="rivalsHud">1/4 · LEAD</div><div id="modeHud">COAST · WHEEL ↑ BOOST / ↓ BRAKE</div><div id="boostHud">⚡ 2 BOOSTS</div></div><div id="notice" aria-live="polite"></div><div class="controls" id="controls" hidden><button id="left" aria-label="Steer left">◀</button><button id="brake" aria-label="Hold to brake">BRAKE</button><button id="jump" aria-label="Jump">JUMP</button><button id="boost" aria-label="Boost">⚡</button><button id="right" aria-label="Steer right">▶</button></div><button id="pause" class="pause" aria-label="Pause race" hidden>Ⅱ</button><section class="panel" id="panel"><div class="eyebrow">AN ORIGINAL MOUNTAIN ARCADE</div><h1>SNOWLINE<br><em>SPRINT</em></h1><p id="description">25 alpine descents. Thread the gates, gather fish, and outrun the clock.</p><div class="course-picker" id="picker"></div><button class="primary" id="primary">START DESCENT <span>↗</span></button><button class="secondary" id="menuButton" hidden>COURSE MENU</button><p class="tip" id="tip">Tilt to steer · touch arrows if tilt is unavailable<br>Double-tap anywhere to jump · wheel up boosts / down brakes<br>Touch BRAKE, JUMP and ⚡ if wheel is unavailable</p></section></main><script type="module" src="game.js"></script></body></html>
